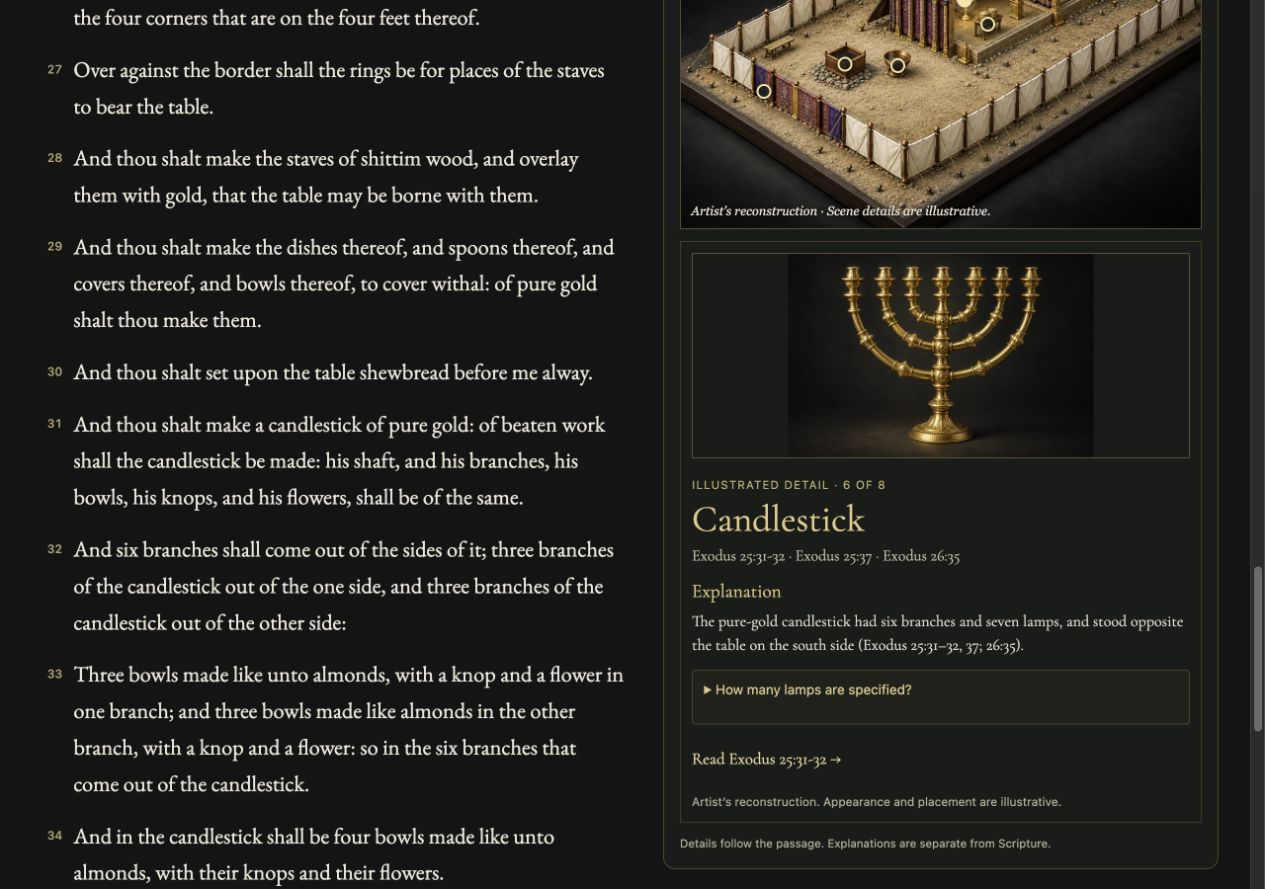
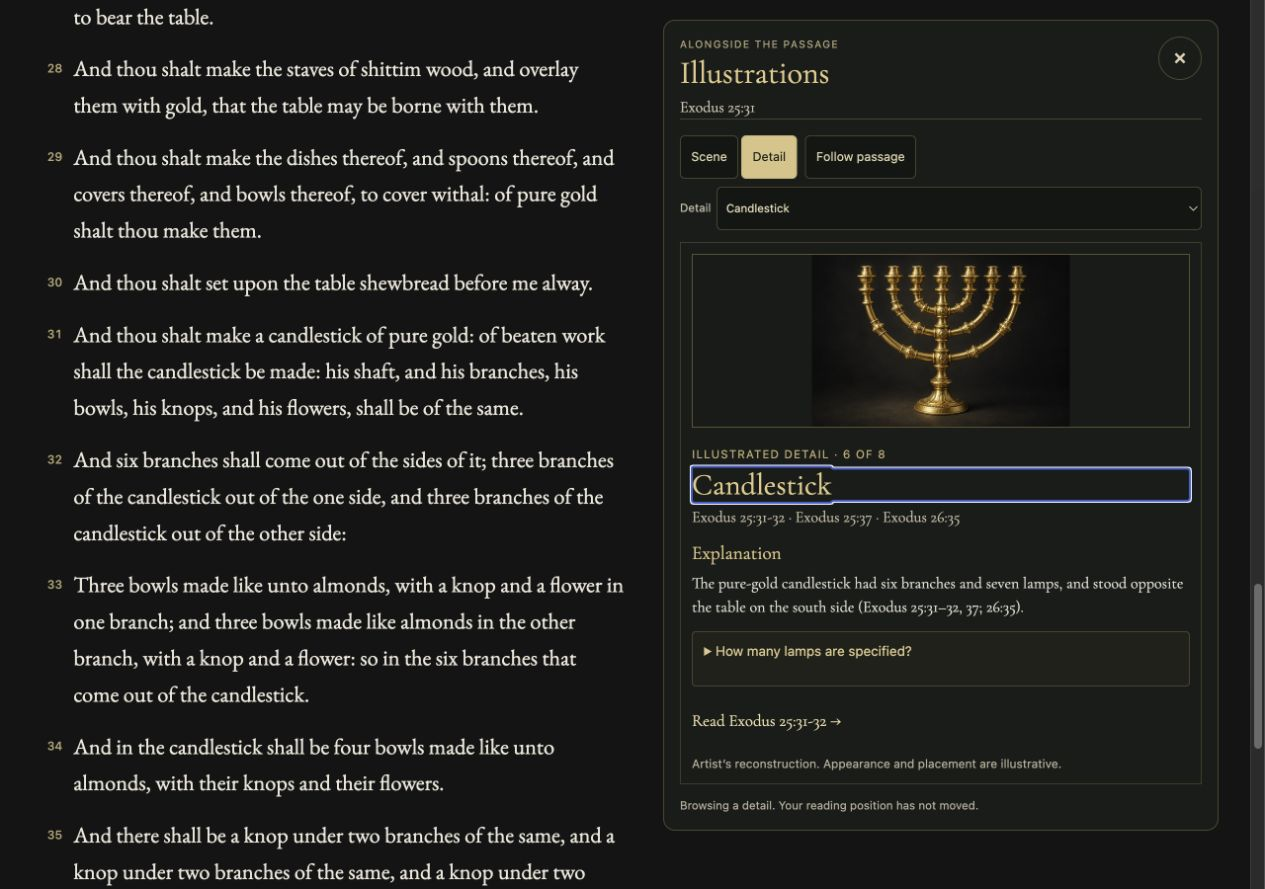
Keep scene hotspots and object details within a reachable companion

diff --git a/web/reader-context.js b/web/reader-context.js
@@ -28,6 +28,7 @@ export function initReaderContext(root = document) {
   let mode = ['journey', 'illustration'].includes(routeURL().searchParams.get('context')) ? routeURL().searchParams.get('context') : 'passage';
   let part = routeURL().searchParams.get('part');
   let scene = routeURL().searchParams.get('scene');
+  let artView = routeURL().searchParams.get('art') === 'scene' ? 'scene' : routeURL().searchParams.get('art') === 'detail' || part ? 'detail' : 'scene';
   let lastHTML = '', follow = true;
   const node = reader.dataset.readerPosition ? document.getElementById(reader.dataset.readerPosition) : null;
   let position = positionForVerse(node) || {bookIndex:Number(reader.dataset.bookIndex), chapter:Number(reader.dataset.chapter), verse:1, route:reader.dataset.readerRoute};
@@ -41,10 +42,11 @@ export function initReaderContext(root = document) {
 
   const writeURL = () => {
     const url = routeURL();
-    for (const key of ['context','scene','part']) url.searchParams.delete(key);
+    for (const key of ['context','scene','part','art']) url.searchParams.delete(key);
     if (mode !== 'passage') url.searchParams.set('context', mode);
     if (mode === 'illustration' && scene) url.searchParams.set('scene', scene);
     if (mode === 'illustration' && part) url.searchParams.set('part', part);
+    if (mode === 'illustration') url.searchParams.set('art',artView);
     const path = `${url.pathname}${url.search}${url.hash}`;
     history.replaceState(history.state, '', location.hash.startsWith('#/') ? `#${path}` : path);
   };
@@ -58,6 +60,8 @@ export function initReaderContext(root = document) {
   const stopMap = () => { terrain?.destroy(); terrain = null; mapState = null; if(body.querySelector('[data-context-map]')) lastHTML=''; };
   const updateButtons = () => {
     reader.dataset.contextMode = mode;
+    reader.dataset.artView = artView;
+    reader.querySelectorAll('[data-context-art-view]').forEach(button=>button.setAttribute('aria-pressed',String(button.dataset.contextArtView===artView)));
     panel.hidden = mode === 'passage';
     reader.querySelectorAll('.reader-modes [data-reader-mode]').forEach(button => {
       button.setAttribute('aria-pressed', String(button.dataset.readerMode === mode));
@@ -94,8 +98,11 @@ export function initReaderContext(root = document) {
         stopMap(); body.innerHTML = value.html; lastHTML = value.html;
         if (value.kind === 'illustration') {
           const tools = document.createElement('div'); tools.className = 'reader-context-follow';
+          const views=document.createElement('div'); views.className='reader-context-art-views'; views.setAttribute('role','group'); views.setAttribute('aria-label','Illustration view');
+          for(const [view,label] of [['scene','Scene'],['detail','Detail']]) {const button=document.createElement('button');button.type='button';button.dataset.contextArtView=view;button.textContent=label;views.append(button);}
+          tools.append(views);
           const button = document.createElement('button'); button.type='button'; button.dataset.contextFollow='';
-          button.textContent = part ? 'Follow details as I read' : value.source_match ? 'Following this passage' : 'Chapter illustration · Following';
+          button.textContent = part ? 'Follow passage' : 'Following passage';
           button.setAttribute('aria-pressed',String(!part)); tools.append(button);
           const label=document.createElement('label'); label.textContent='Detail ';
           const select=document.createElement('select'); select.dataset.contextPartSelect=''; select.setAttribute('aria-label','Illustrated detail');
@@ -115,8 +122,11 @@ export function initReaderContext(root = document) {
         }
       }
       const followButton=body.querySelector('[data-context-follow]');
-      if(followButton) {followButton.textContent=part ? 'Follow details as I read' : value.source_match ? 'Following this passage' : 'Chapter illustration · Following'; followButton.setAttribute('aria-pressed',String(!part));}
-      if (focusPart) body.querySelector(`[data-context-part="${CSS.escape(focusPart)}"]`)?.focus({preventScroll:true});
+      if(followButton) {followButton.textContent=part ? 'Follow passage' : 'Following passage'; followButton.setAttribute('aria-pressed',String(!part));}
+      if (focusPart) {
+        const target=artView==='detail' ? body.querySelector('.reader-illustration-copy h3') : body.querySelector(`[data-context-part="${CSS.escape(focusPart)}"]`);
+        if(target) {if(artView==='detail') target.tabIndex=-1;target.focus({preventScroll:true});}
+      }
       status.textContent = value.kind === 'illustration' ? (part ? 'Browsing a detail. Your reading position has not moved.' : value.source_match ? 'Details follow the passage. Explanations are separate from Scripture.' : 'Illustration for this chapter. The selected item’s source is shown below.') : 'Journey follows your reading and listening position.';
       updateButtons(); writeURL();
     } catch (error) {
@@ -133,7 +143,7 @@ export function initReaderContext(root = document) {
     });
   }
   root.addEventListener('click', event => {
-    const target = event.target.closest('[data-reader-mode],[data-context-part],[data-context-follow],[data-context-read],[data-context-map-action]');
+    const target = event.target.closest('[data-reader-mode],[data-context-part],[data-context-follow],[data-context-read],[data-context-map-action],[data-context-art-view]');
     if (!target || !reader.contains(target)) return;
     if (target.hasAttribute('data-context-read')) {
       const verse = findVerse(target.dataset.contextBook, target.dataset.contextChapter, target.dataset.contextVerse);
@@ -155,8 +165,9 @@ export function initReaderContext(root = document) {
       verse.tabIndex=-1; verse.focus({preventScroll:true}); refresh(); return;
     }
     event.preventDefault(); event.stopImmediatePropagation();
+    if (target.dataset.contextArtView) {artView=target.dataset.contextArtView;updateButtons();writeURL();return;}
     if (target.dataset.readerMode) {mode=target.dataset.readerMode; writeURL(); refresh(); return;}
-    if (target.dataset.contextPart) {part=target.dataset.contextPart; refresh({focusPart:part}); return;}
+    if (target.dataset.contextPart) {part=target.dataset.contextPart;artView='detail'; refresh({focusPart:part}); return;}
     if (target.hasAttribute('data-context-follow')) {part=null; refresh(); return;}
     const action=target.dataset.contextMapAction;
     if(action==='zoom-in') terrain?.zoom(1);
@@ -167,7 +178,7 @@ export function initReaderContext(root = document) {
     if(action==='follow') {follow=true; terrain?.update(mapState,{follow:true,force:true}); target.textContent='Follow passage';}
   }, {capture:true,signal});
   reader.addEventListener('change', event => {
-    if(event.target.matches('[data-context-part-select]')) {part=event.target.value;refresh();return;}
+    if(event.target.matches('[data-context-part-select]')) {part=event.target.value;artView='detail';refresh({focusPart:part});return;}
     if(!event.target.matches('[data-reader-size],[data-reader-spacing]')) return;
     const value={size:reader.querySelector('[data-reader-size]').value,spacing:reader.querySelector('[data-reader-spacing]').value};
     applyDisplay(value); try {localStorage.setItem(DISPLAY_KEY,JSON.stringify(value));}catch{}

diff --git a/web/reader-context.css b/web/reader-context.css
@@ -105,3 +105,11 @@ main.wrap:has(.reader-page) { max-width: 90rem; width: calc(100% - 64px); }
 .reader-context-follow { display:flex; flex-wrap:wrap; align-items:center; gap:.5rem; margin-bottom:.75rem; }
 .reader-context-follow label { display:flex; align-items:center; gap:.35rem; min-width:0; flex:1; color:#c9bfac; font:.72rem/1.4 system-ui,sans-serif; }
 .reader-context-follow select { min-width:0; width:100%; min-height:44px; padding:.3rem; background:#121613; color:#ead9b3; border:1px solid #b59a6255; border-radius:5px; font:inherit; }
+
+.reader-page[data-art-view=scene] .reader-illustration-detail,
+.reader-page[data-art-view=detail] .reader-illustration-scene { display:none; }
+.reader-context-art-views { display:flex; gap:3px; }
+.reader-context-art-views button[aria-pressed=true] { background:#e2c383; color:#191c19; }
+.reader-context-follow label { flex-basis:100%; }
+.reader-context .reader-illustration-object { max-height:11rem; }
+.reader-context .reader-illustration-copy h3 { font-size:1.9rem; }

diff --git a/web/progress.js b/web/progress.js
@@ -50,7 +50,7 @@ export function resumeRoute(route, item = readProgress(), {reload = false} = {})
   if (params.has('v')) return route;
   if (match[3] && !params.has('resume')) return route;
   if (!reload && params.has('resume') && Number(params.get('resume')) !== item.verse) return route;
-  for (const key of params.keys()) if (!['context','scene','part','resume'].includes(key)) return route;
+  for (const key of params.keys()) if (!['context','scene','part','art','resume'].includes(key)) return route;
   params.set('resume', item.verse);
   return `${item.route}?${params}#v${item.verse}`;
 }

diff --git a/README.md b/README.md
@@ -108,7 +108,7 @@ A static host cannot run Axum or provide these as HTTP endpoints. The same JSON 
 
 **Passage** is the default reading view. Book and chapter navigation, continuous KJV text, exact-verse progress, and one **Listen from here** player share the same reader. **Text settings** adjusts size and line spacing and remembers those choices locally. Desktop context sits beside the passage; on narrow screens it moves into normal document flow without a nested Scripture scroll pane.
 
-**Illustrations** appears when a chapter has a relevant study: Noah’s Ark in Genesis 6–9, the Tabernacle in Exodus 25–31 and 35–40, and the Sower in Matthew 13. The three existing scenes retain all 16 hotspots and their individual object/detail artwork. A hotspot or the **Detail** selector changes the illustration and explicitly labeled explanation without moving the reading bookmark. **Read [reference]** deliberately moves the Scripture to that source passage. **Follow details as I read** returns from a browsed object to source-matched details as scrolling or narration advances. No explanation is added to the Scripture DOM or speech queue.
+**Illustrations** appears when a chapter has a relevant study: Noah’s Ark in Genesis 6–9, the Tabernacle in Exodus 25–31 and 35–40, and the Sower in Matthew 13. The three existing scenes retain all 16 hotspots and their individual object/detail artwork. **Scene / Detail** switches between the scene and its object card in the same companion, rather than stacking both tall images. A hotspot or the labeled detail selector changes the illustration and explicitly labeled explanation without moving the reading bookmark. **Read [reference]** deliberately moves the Scripture to that source passage. **Follow passage** returns from a browsed object to source-matched details as scrolling or narration advances. No explanation is added to the Scripture DOM or speech queue.
 
 Canonical share links use the reader, for example:
 

diff --git a/docs/reader-companion.md b/docs/reader-companion.md
@@ -5,9 +5,9 @@ The chapter reader owns one canonical Scripture stream, one audio player, and on
 ## Interaction
 
 - Passage closes the companion. Journey opens story or geographic context for the verse reached. Illustrations is offered only in chapters with one of the three existing studies.
-- A study hotspot changes editorial detail only. A labeled selector provides the same choices on narrow screens and with a keyboard.
+- Scene / Detail switches the companion between its overview and selected object card. A study hotspot opens Detail and changes editorial content only. A labeled selector provides the same choices on narrow screens and with a keyboard.
 - Read reference is an intentional navigation. A verse already present in the reading stream is selected without remounting the reader; active narration stops so the next Listen begins at the deliberately selected verse. A different chapter uses its canonical reader link. Browsing an object or switching context views does not stop narration.
-- Follow details as I read releases a manually selected part. Rust then selects the first existing object whose cited source range contains the active verse. If no exact object source matches, the study retains a chapter-level default; its source citation remains visible.
+- Follow passage releases a manually selected part. Rust then selects the first existing object whose cited source range contains the active verse. If no exact object source matches, the study retains a chapter-level default; its source citation remains visible.
 - Journey listens to the same real reading/audio position events as the saved bookmark. Context-only view changes replace the current share URL and do not create a separate page history.
 - Text size and spacing are browser-local preferences. Continue links consistently use the saved exact verse; explicit verse links take precedence during normal navigation. Reloading a continued chapter resumes the latest saved position.
 

diff --git a/design-qa.md b/design-qa.md
@@ -178,3 +178,5 @@ Supporting checks: 52 Rust tests, exact-progress validation tests, JS syntax, re
 A settled real PageUp key updated the reading bookmark from Genesis 3:20 to 3:14. A real End key then exposed an end-of-document edge: the reading line stayed on 3:20 even though the last verse was visible above the footer. The scroll tracker now saves the last displayed verse when the document end has been reached and that verse is fully visible. Accessibility-API page scrolling did not emit the same DOM input-intent signal in this browser, so keyboard input is used for this acceptance check.
 
 The corrected End-key journey was repeated in the actual local browser: the bookmark reached Genesis 3:24 at the document end and the companion changed to the guarded way.
+
+Hosted version 34 exposed a further tall-panel problem during the live audio/hotspot check: the scene hotspots sat above the viewport while the stacked object detail was pinned. The attempted native click paused playback instead of selecting the requested table, so that check failed and was not counted as success. The follow-up candidate adds real Scene / Detail controls inside the same companion, displaying only one illustration surface at a time. This materially changes the unreachable-card layout; the corrected visible-hotspot/audio flow must be repeated on the published follow-up candidate.
